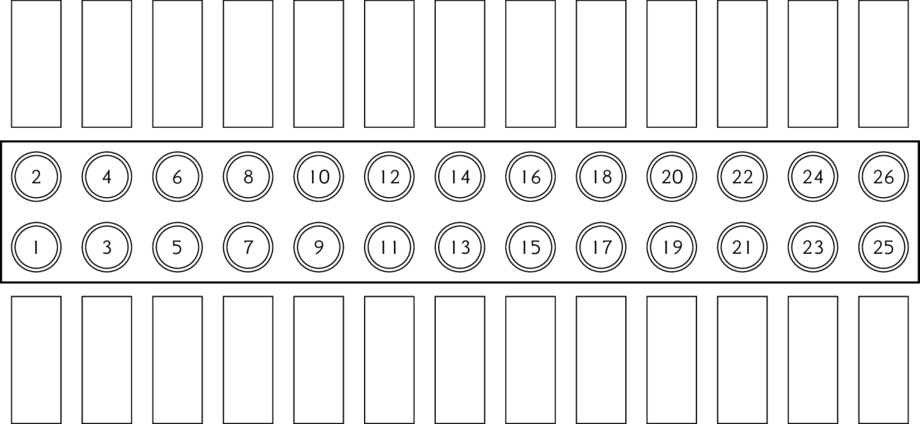
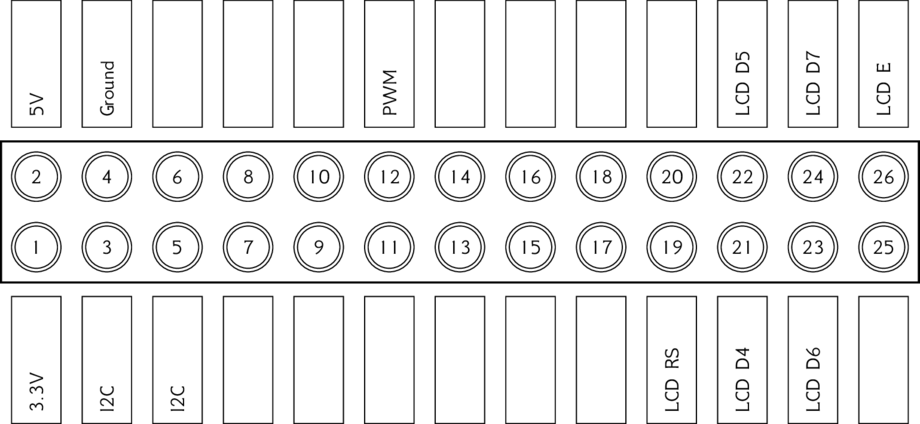
Labels für wiring grafik

diff --git a/docs/wiring.tex b/docs/wiring.tex
@@ -1,6 +1,7 @@
 \documentclass{standalone}
 
 \usepackage{tikz}
+\usepackage{ifthen}
 \usepackage[default]{gfsneohellenic}
 \usepackage[LGR,T1]{fontenc} %% LGR encoding is needed for loading the package gfsneohellenic
 
@@ -22,6 +23,27 @@
 			\draw (\x-0.85,2.2) rectangle (\x-0.15,4);
 			\draw (\x-0.85,-0.2) rectangle (\x-0.15,-2);
 		}
+
+		% Labelling function
+		\newcommand{\pinlabel}[2]{%
+			\ifthenelse{\isodd{#1}}%
+			{\node[anchor=west,rotate=90] at (#1/2, -2) {#2}}%
+			{\node[anchor=west,rotate=90] at (#1/2-0.5, 2.2) {#2}}
+		};
+
+		% Labels
+		\pinlabel{1}{3.3V};
+		\pinlabel{2}{5V};
+		\pinlabel{3}{I2C};
+		\pinlabel{4}{Ground};
+		\pinlabel{5}{I2C};
+		\pinlabel{12}{PWM};
+		\pinlabel{19}{LCD RS};
+		\pinlabel{21}{LCD D4};
+		\pinlabel{22}{LCD D5};
+		\pinlabel{23}{LCD D6};
+		\pinlabel{24}{LCD D7};
+		\pinlabel{26}{LCD E};
 
 	\end{tikzpicture}
 
